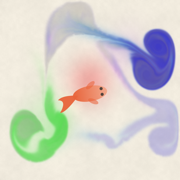
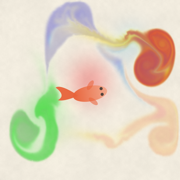
アイコン背景の3色を黄・青・緑に変更（Ryo指定）
?icon の seedIcon パレットを 藍/紫/緑 → きいろ/あお/みどり（黄・青・緑）に。
実アプリ撮影で再生成。sw.js CACHE v23。

diff --git a/index.html b/index.html
@@ -1671,7 +1671,7 @@ function seedIcon() {
   const W = innerWidth, H = innerHeight;
   // 3色だけで綺麗に魅せる（暖色の緋鯉を引き立てる寒色系: 藍・紫・緑）。
   // inks: 0=あか 1=あお 2=きいろ 3=みどり 4=だいだい 5=むらさき
-  const pal = [inks[1], inks[5], inks[3]];  // 藍 / 紫 / 緑
+  const pal = [inks[2], inks[1], inks[3]];  // きいろ / あお / みどり（黄・青・緑）
   // 二次ベジェの曲線ストローク（中央を避けて周囲を流す・本数を絞り余白を残す）
   const strokes = [
     { c: 0, p: [0.16, 0.34, 0.42, 0.18, 0.82, 0.30] },  // 上を横切る（藍）

diff --git a/sw.js b/sw.js
@@ -1,6 +1,6 @@
 // すみながし Service Worker — オフラインでも遊べるように全アセットをキャッシュ
 // HTML はネットワーク優先（更新が1回の起動で届く）・静的アセットはキャッシュ優先
-const CACHE = "suminagashi-v22";
+const CACHE = "suminagashi-v23";
 const ASSETS = [
   "./",
   "./index.html",
